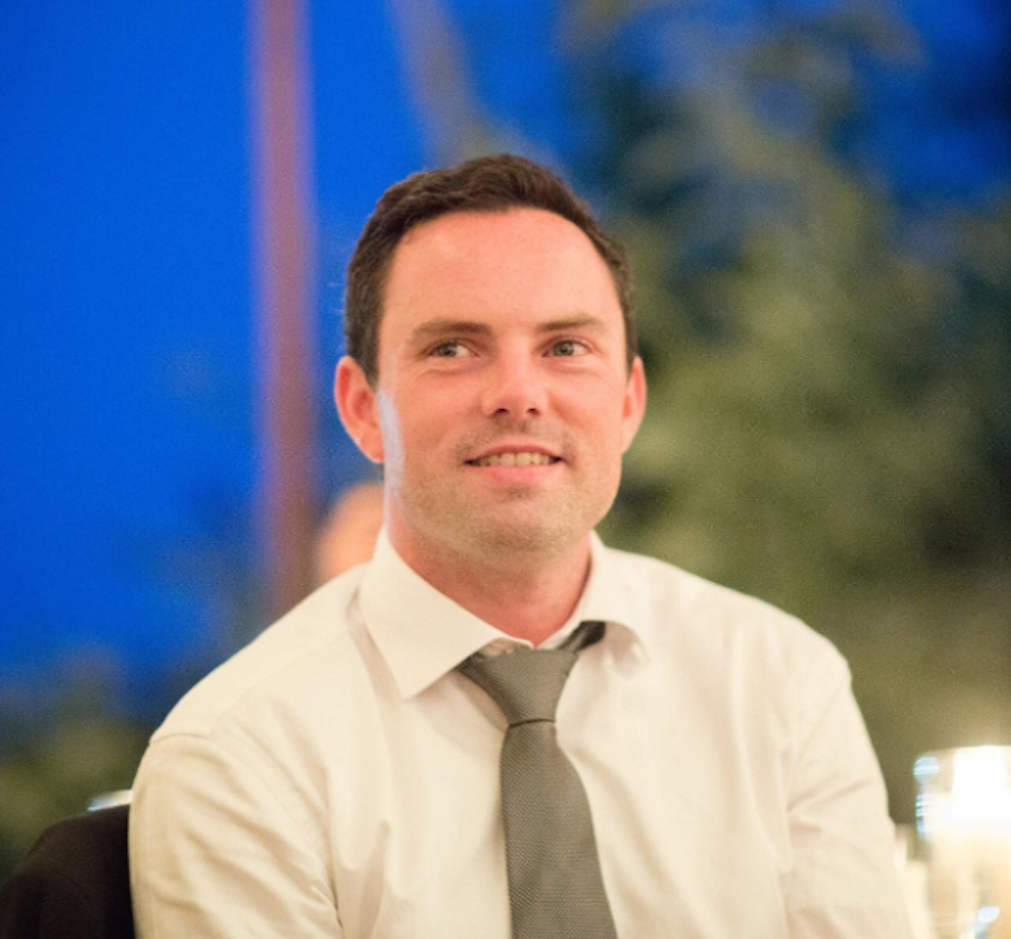
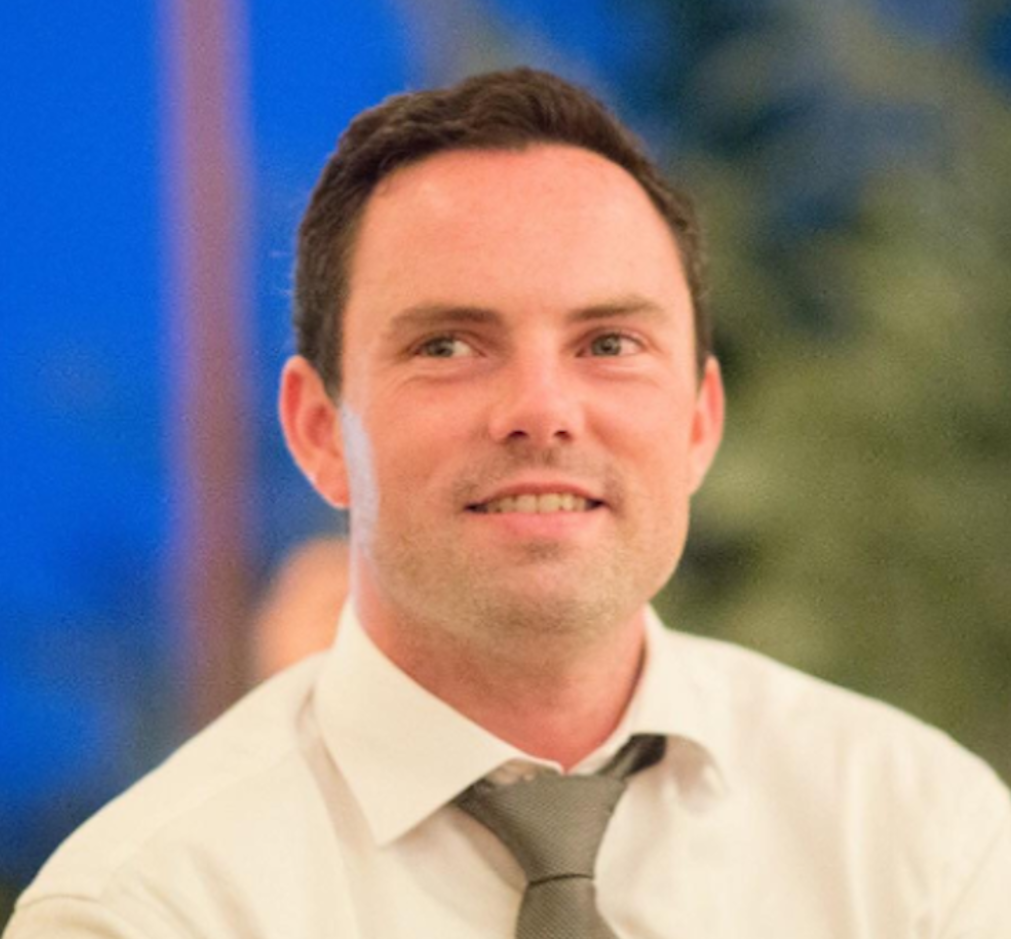
Members' photos zoomed in and a paragraph/new line added in the header section, in about page.

diff --git a/pages/about.js b/pages/about.js
@@ -28,7 +28,8 @@ function About1() {
                             <div className="row">
                                 <div className="col-lg-7"><span className="tag-1 color-orange-900">Forward Thinking Team</span>
                                     <h1 className="text-display-3 mt-30">We harness innovation to manifest value for businesses and brands.</h1>
-                                    <p className="text-body-lead-large color-gray-500 mt-40 pr-40">Manifest is a digital consultancy and software development agency that empowers forward-thinking brands through cutting-edge digital experiences.  Our expertise spans brand and digital strategy, user experience design, software development, implementation, and data systems. We are a value-driven agency working with some of the most talented professionals to drive results.</p>
+                                    <p className="text-body-lead-large color-gray-500 mt-40 pr-40">Manifest is a digital consultancy and software development agency that empowers forward-thinking brands through cutting-edge digital experiences.</p>
+                                    <p className="text-body-lead-large color-gray-500 mt-40 pr-40">Our expertise spans brand and digital strategy, user experience design, software development, implementation, and data systems. We are a value-driven agency working with some of the most talented professionals to drive results.</p>
                                     <div className="mt-40">
                                         <Link href="/#get-started"><a
                                             className="btn btn-black shape-square icon-arrow-right-white">GET STARTED
